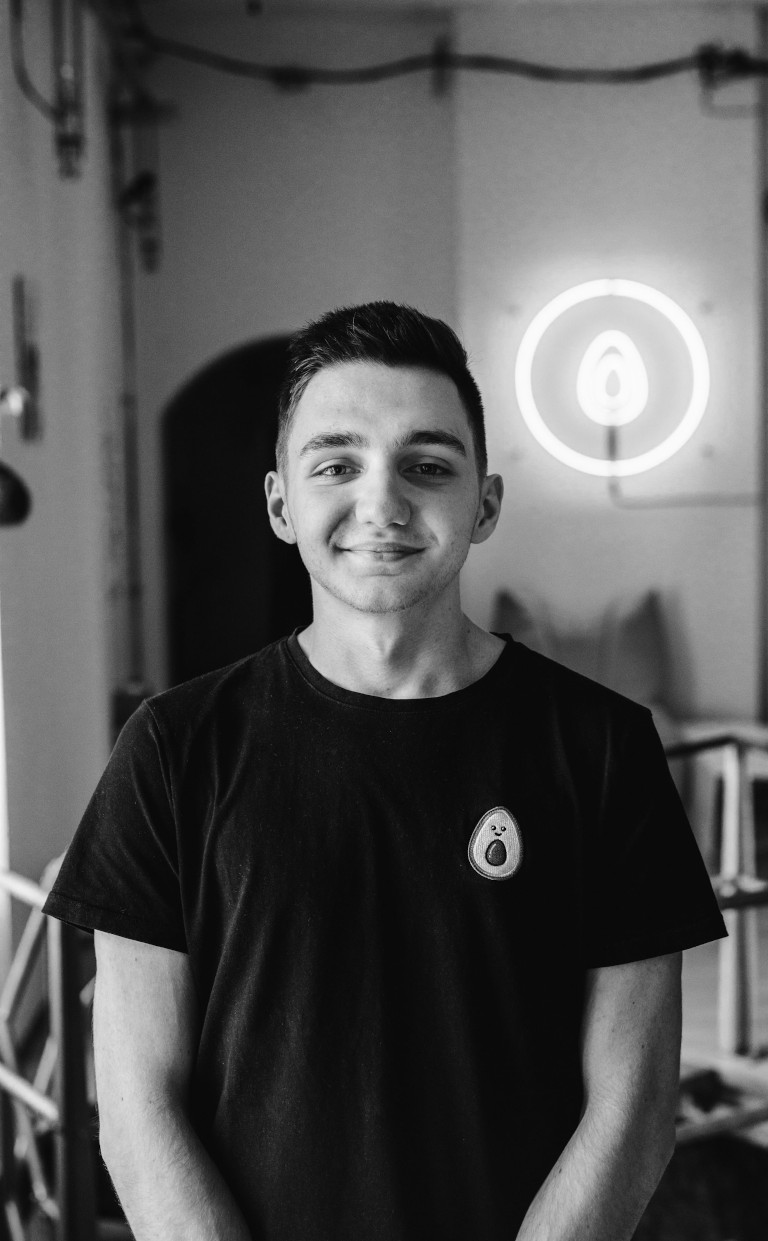
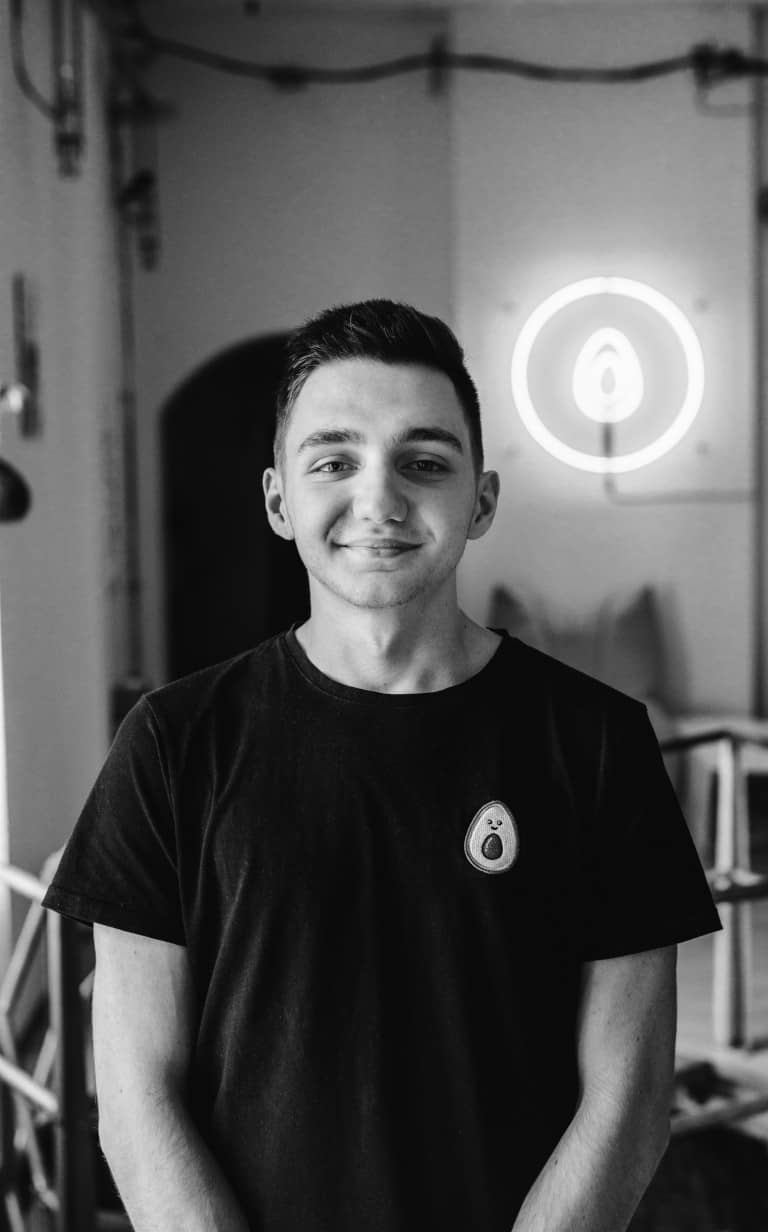
feat: optimized headshot photo

diff --git a/src/components/optimized-headshot-image/optimized-headshot-image.component.tsx b/src/components/optimized-headshot-image/optimized-headshot-image.component.tsx
@@ -1,0 +1,51 @@
+import React from "react";
+import styled from "@emotion/styled";
+
+const PlaceholderImage = styled.img`
+  width: 100%;
+  height: auto;
+
+  filter: blur(15px);
+`;
+
+const Image = styled.img`
+  width: 100%;
+  height: auto;
+
+  position: absolute;
+
+  top: 0;
+  left: 0;
+`;
+
+const ImageContainer = styled.div`
+  position: relative;
+`;
+
+interface OptimizedHeadshotImageProps {
+  /** This className is used by Styled Components */
+  className?: string;
+  alt?: string;
+}
+
+const lqip =
[1 lines of base64/hex data omitted]
+
+export const OptimizedHeadshotImage: React.FC<OptimizedHeadshotImageProps> = ({
+  alt,
+  className,
+}) => {
+  return (
+    <ImageContainer className={className}>
+      <PlaceholderImage src={lqip} alt={alt && `Placeholder for ${alt}`} />
+      <picture>
+        <source srcSet={`/headshot/768.webp 768w, /headshot/425.webp 425w`} type="image/webp" />
+        <Image
+          src={`/headshot/768.jpg`}
+          srcSet={`/headshot/768.jpg 768w, /headshot/425.jpg 425w`}
+          alt={alt}
+        />
+      </picture>
+    </ImageContainer>
+  );
+};

diff --git a/pages/index.tsx b/pages/index.tsx
@@ -5,9 +5,13 @@ import PageLayout from "src/components/page-layout/page-layout.component";
 import { Social } from "src/components/social/social.component";
 import { DashedBorder } from "src/styles/global-css";
 
-const Headshot = styled.img`
+import { OptimizedHeadshotImage } from "src/components/optimized-headshot-image/optimized-headshot-image.component";
+
+const Headshot = styled(OptimizedHeadshotImage)`
   width: 100%;
   height: auto;
+
+  overflow: hidden;
 
   ${DashedBorder};
 
@@ -82,11 +86,7 @@ const IndexPage: React.FC = () => {
       aside={() => {
         return (
           <Fragment>
-            <picture>
-              <source srcSet="/headshot/768.webp 768w, /headshot/512.webp 512w" />
-              <source srcSet="/headshot/768.jpg 768w, /headshot/512.jpg 512w" />
-              <Headshot src="/headshot/768.jpg" alt="Pavel Susicky's headshot photo" />
-            </picture>
+            <Headshot alt="Pavel Susicky's headshot photo" />
             <Social />
           </Fragment>
         );
